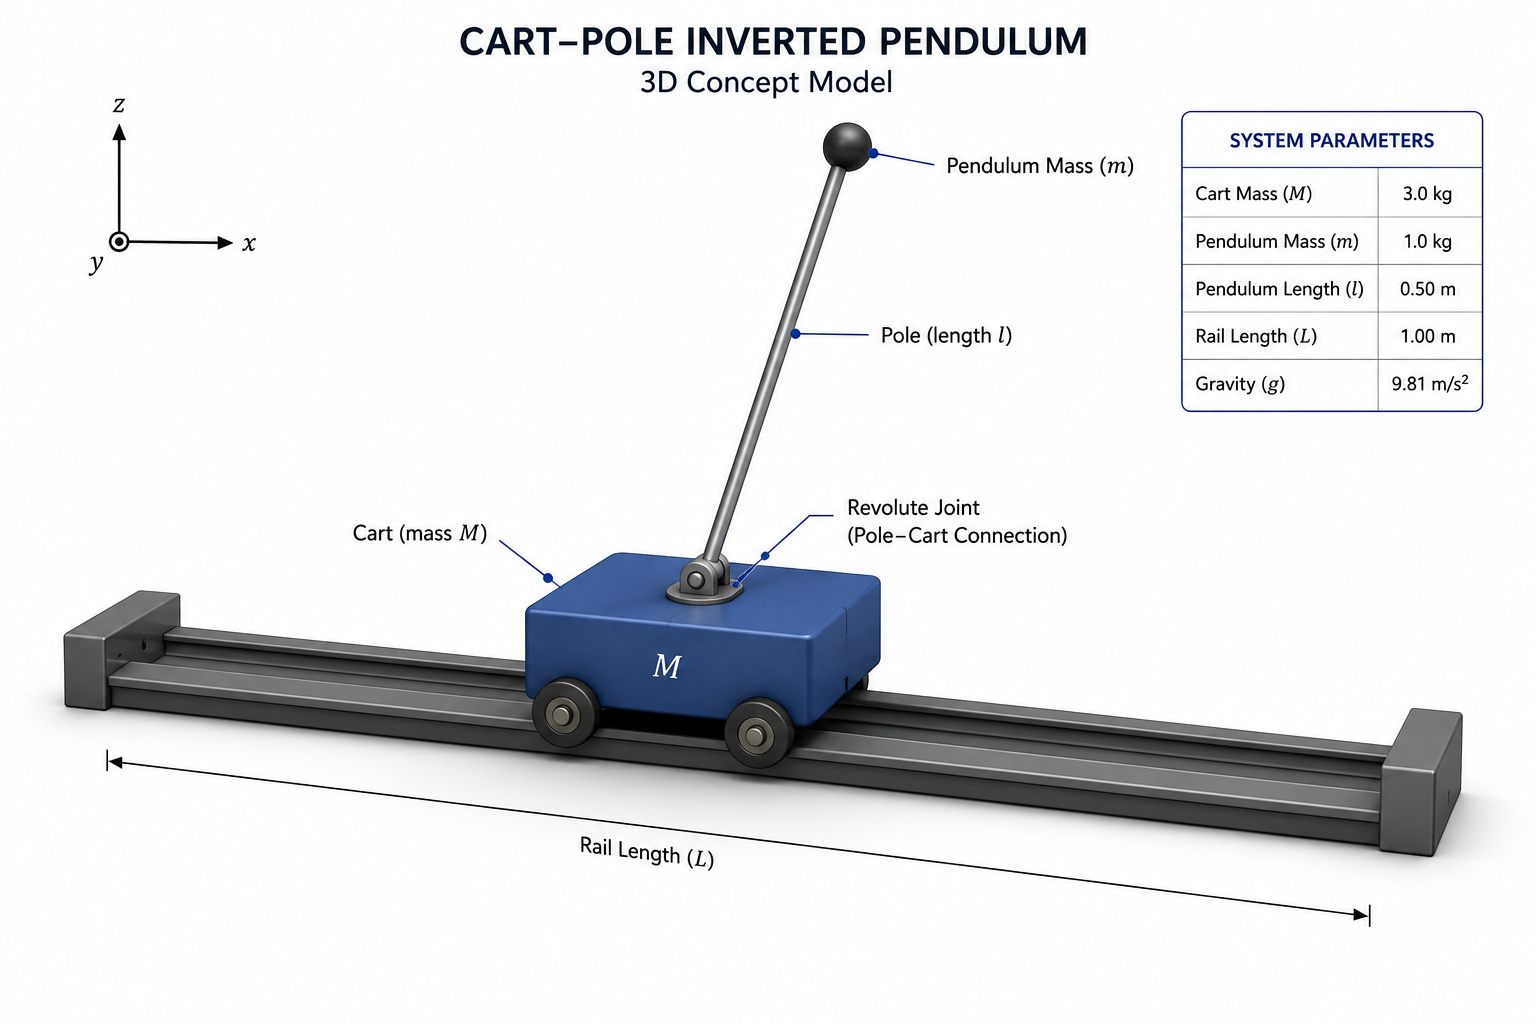
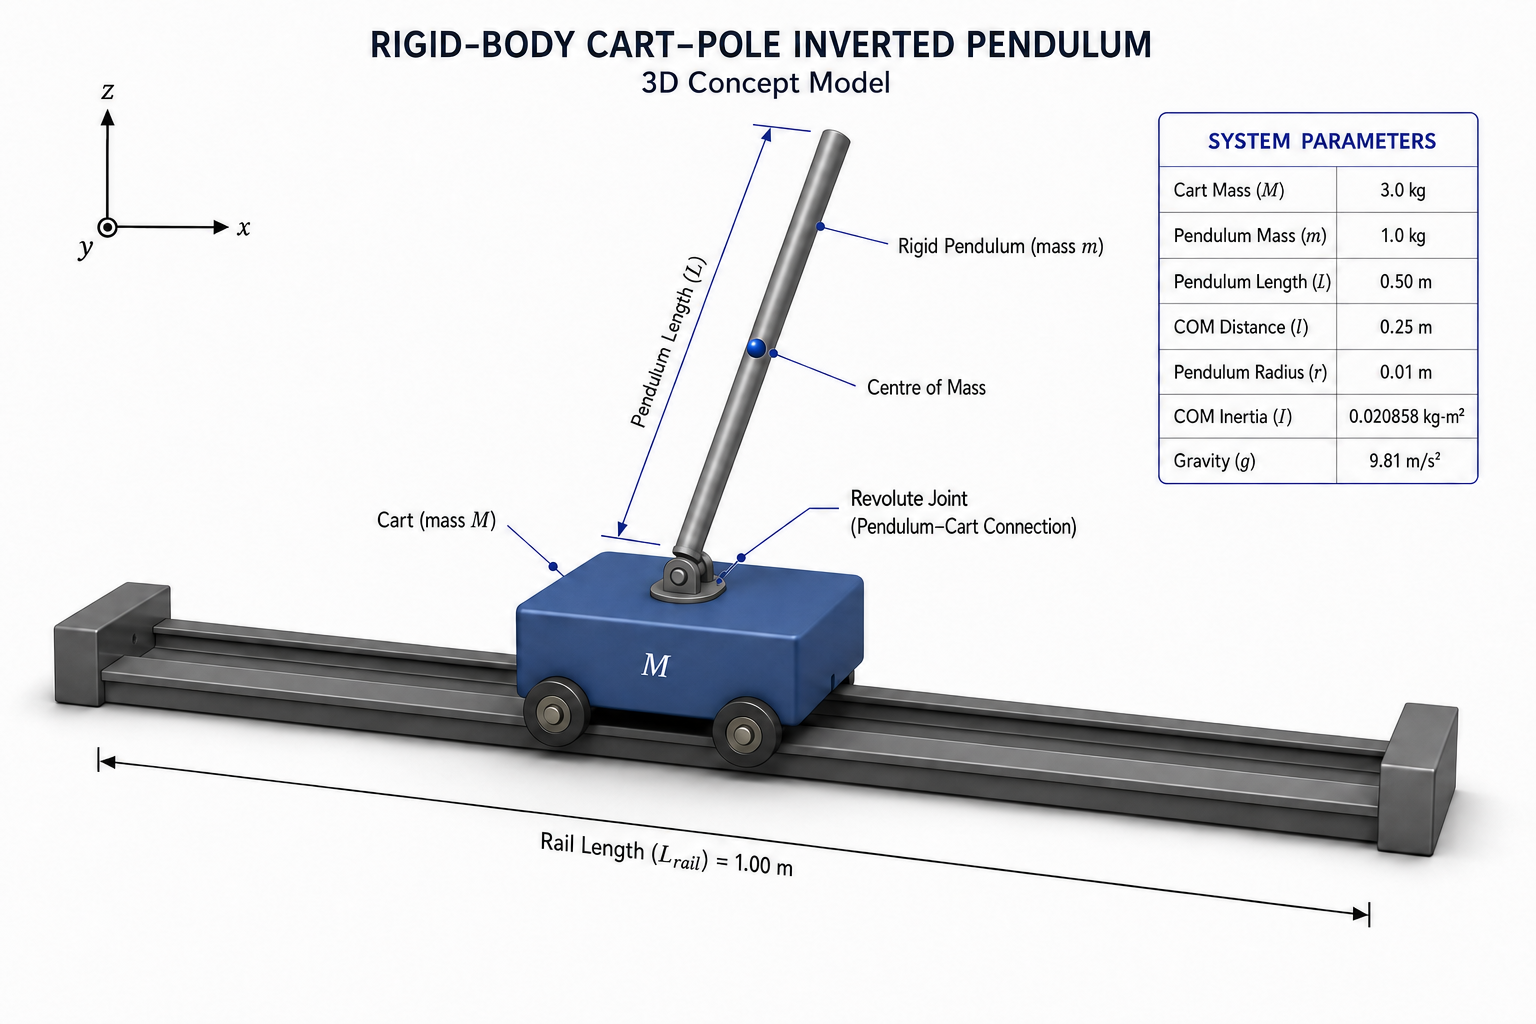
Update images

diff --git a/README.md b/README.md
@@ -151,7 +151,7 @@ The simulated physical system consists of a cart moving along a horizontal rail 
 The cart is actuated by an external horizontal force, while the pendulum is free to rotate under the influence of gravity. By appropriately controlling the cart motion, the pendulum can be stabilized around its naturally unstable upright equilibrium.
 
 <p align="center">
-    <img src="images/system_model_concept.png" alt="3D Concept System Model" width="1000">
+    <img src="images/system_model_concept.png" alt="3D Concept Physical System Model" width="1000">
 </p>
 
 Although mechanically simple, this configuration captures the essential dynamics required to study nonlinear modeling, state-space control, and feedback stabilization.
